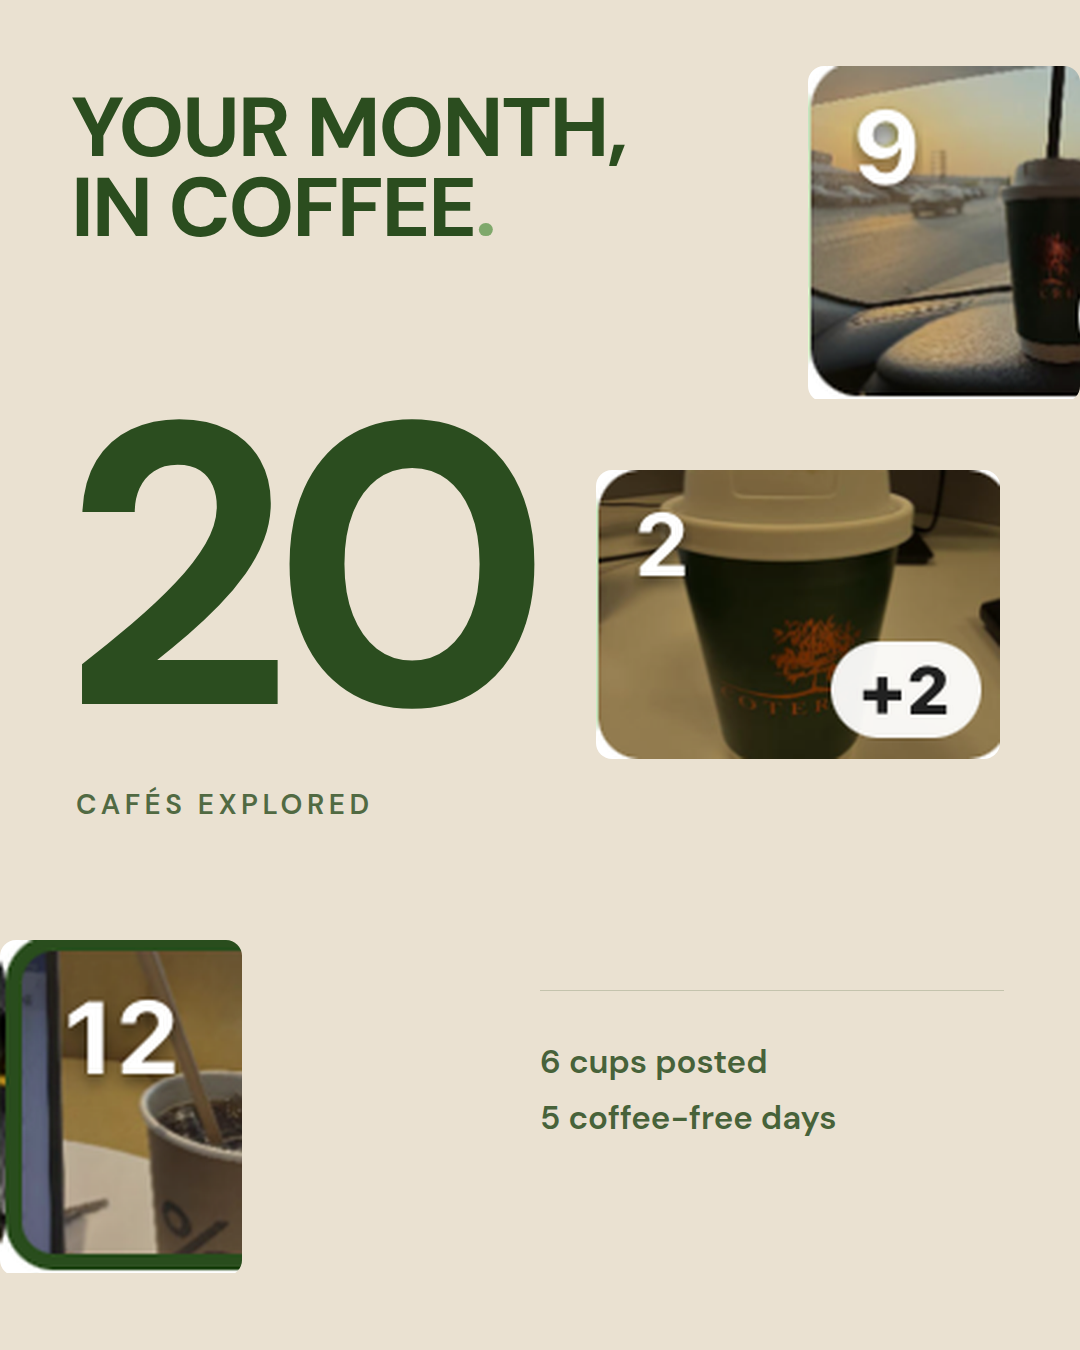
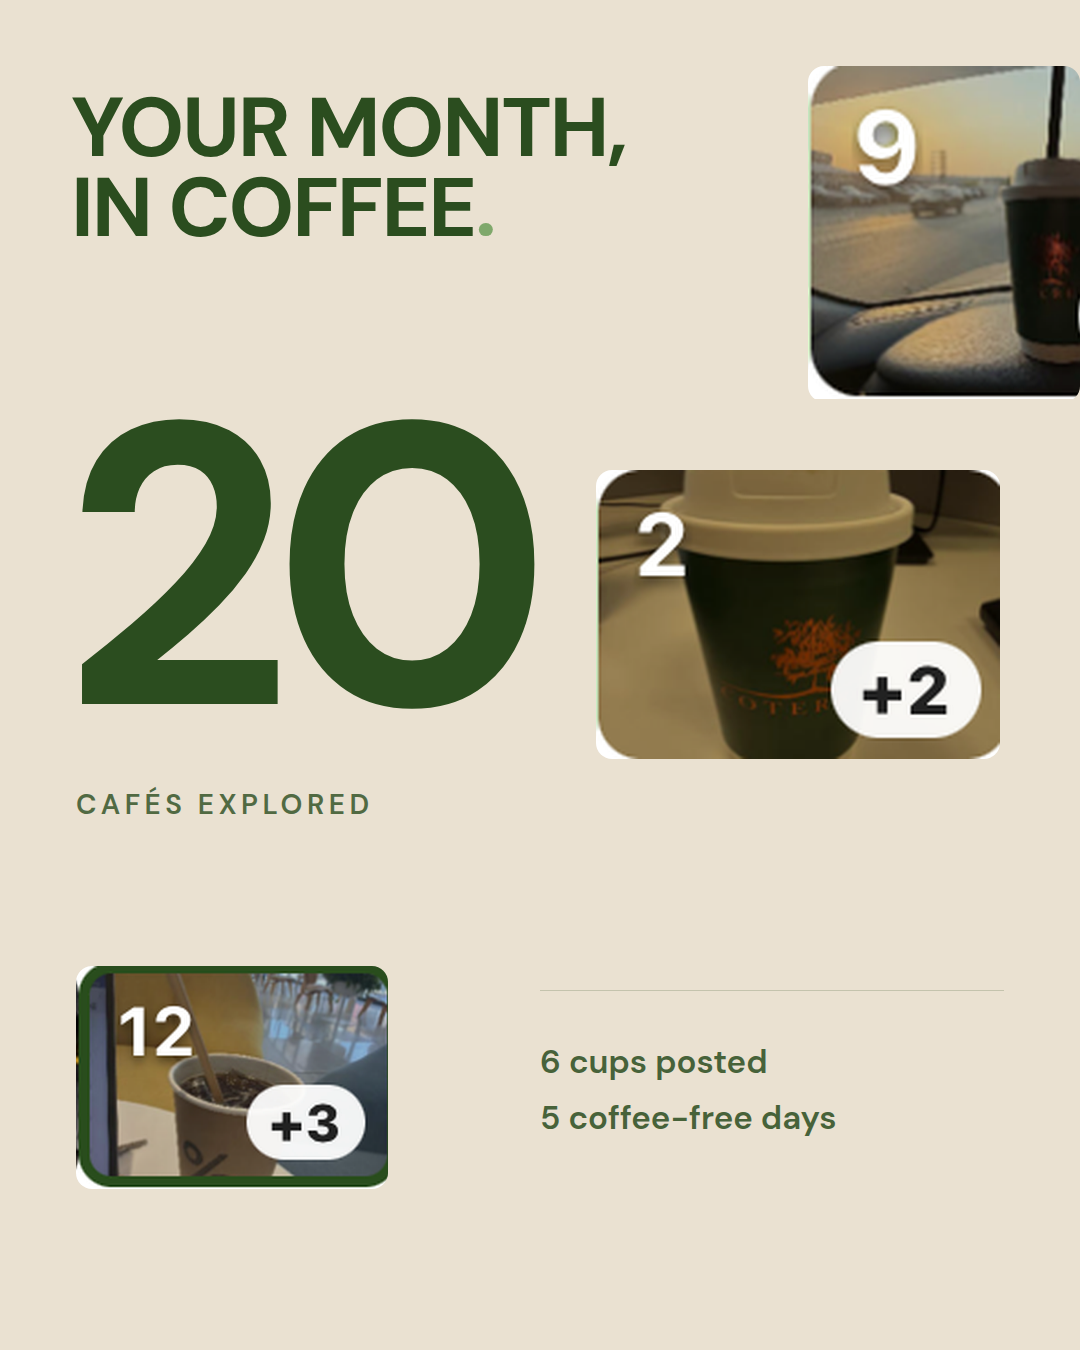
Uncrop the day-12 photo and tighten the redeemed line
Slide 4 showed only half that check-in tile, which read as an accident;
it is now a smaller complete tile on the left margin. Slide 3 support
copy is one line with a numeral: 200 BrewPoints redeemed across 3 cafés.

Claude-Session: https://claude.ai/code/session_01UCKVHF8Bj15Neb29ir5cAN

Changed region(s): [[0.0, 0.6844, 0.3667, 0.9644]]

diff --git a/marketing/instagram/2026-09-coffee-month/source/wrap-4.html b/marketing/instagram/2026-09-coffee-month/source/wrap-4.html
@@ -4,6 +4,6 @@
 <div class="ph" style="left:596px;top:470px;width:404px;height:289px;border-radius:16px;"><img src="src/photo-2.png"></div>
 <div class="abs num" style="left:62px;top:404px;font-size:400px;">20</div>
 <div class="abs kick" style="left:76px;top:786px;font-size:28px;opacity:.8;">cafés explored</div>
-<div class="frag" style="left:0px;top:940px;width:242px;height:336px;border-radius:16px;"><img src="src/photo-12.png" style="width:470px;"></div>
+<div class="ph" style="left:76px;top:966px;width:312px;height:223px;border-radius:16px;"><img src="src/photo-12.png"></div>
 <div class="rule abs" style="left:540px;top:990px;width:464px;background:rgba(43,77,31,.2);"></div>
 <div class="abs" style="left:540px;top:1034px;font-size:33px;font-weight:600;opacity:.85;line-height:1.7;">6 cups posted<br>5 coffee-free days</div>

diff --git a/marketing/instagram/2026-09-coffee-month/source/wrap-3.html b/marketing/instagram/2026-09-coffee-month/source/wrap-3.html
@@ -6,4 +6,4 @@
 </div>
 <h1 class="h abs" style="left:70px;top:582px;font-size:142px;">Claimed<span style="color:#7FA86B">.</span></h1>
 <div class="rule abs" style="left:76px;top:838px;width:928px;background:rgba(43,77,31,.2);"></div>
-<div class="abs" style="left:76px;top:884px;font-size:31px;font-weight:500;opacity:.75;line-height:1.45;"><b style="font-weight:700;opacity:1;">200 BrewPoints</b> redeemed<br>across three cafés.</div>
+<div class="abs" style="left:76px;top:884px;font-size:31px;font-weight:500;opacity:.75;line-height:1.45;"><b style="font-weight:700;opacity:1;">200 BrewPoints</b> redeemed across 3 cafés.</div>

diff --git a/marketing/instagram/2026-09-coffee-month/source/build_final.py b/marketing/instagram/2026-09-coffee-month/source/build_final.py
@@ -51,7 +51,7 @@ S3=f'''{H}<style>body{{background:var(--cream);color:var(--green);}}</style>
 </div>
 <h1 class="h abs" style="left:{M-6}px;top:582px;font-size:142px;">Claimed<span style="color:#7FA86B">.</span></h1>
 <div class="rule abs" style="left:{M}px;top:838px;width:{1080-2*M}px;background:rgba(43,77,31,.2);"></div>
-<div class="abs" style="left:{M}px;top:884px;font-size:31px;font-weight:500;opacity:.75;line-height:1.45;"><b style="font-weight:700;opacity:1;">{REDEEMED_PLACEHOLDER} BrewPoints</b> redeemed<br>across {REDEEMED_CAFES} cafés.</div>'''
+<div class="abs" style="left:{M}px;top:884px;font-size:31px;font-weight:500;opacity:.75;line-height:1.45;"><b style="font-weight:700;opacity:1;">{REDEEMED_PLACEHOLDER} BrewPoints</b> redeemed across {REDEEMED_CAFES_N} cafés.</div>'''
 
 # ── 4  THE MONTH — one hero stat, two footnotes, photos as memories
 S4=f'''{H}<style>body{{background:var(--sand);color:var(--green);}}</style>
@@ -60,7 +60,7 @@ S4=f'''{H}<style>body{{background:var(--sand);color:var(--green);}}</style>
 {tile(596,470,404,2)}
 <div class="abs num" style="left:{M-14}px;top:404px;font-size:400px;">{CAFES}</div>
 <div class="abs kick" style="left:{M}px;top:786px;font-size:28px;opacity:.8;">cafés explored</div>
-{frag(0,940,242,470,12)}
+{tile(M,966,312,12)}
 <div class="rule abs" style="left:540px;top:990px;width:{1080-540-M}px;background:rgba(43,77,31,.2);"></div>
 <div class="abs" style="left:540px;top:1034px;font-size:33px;font-weight:600;opacity:.85;line-height:1.7;">{CUPS} cups posted<br>{FREE_DAYS} coffee-free days</div>'''
 
